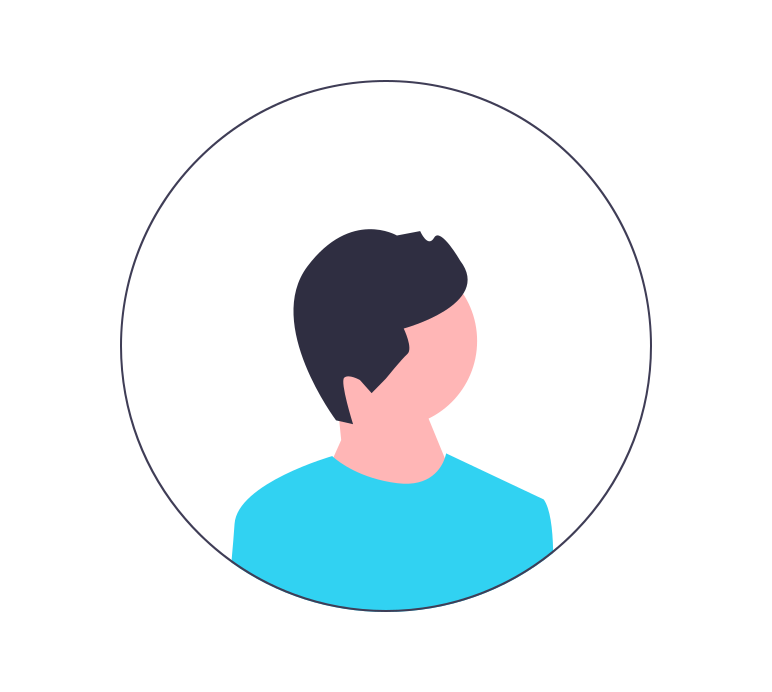
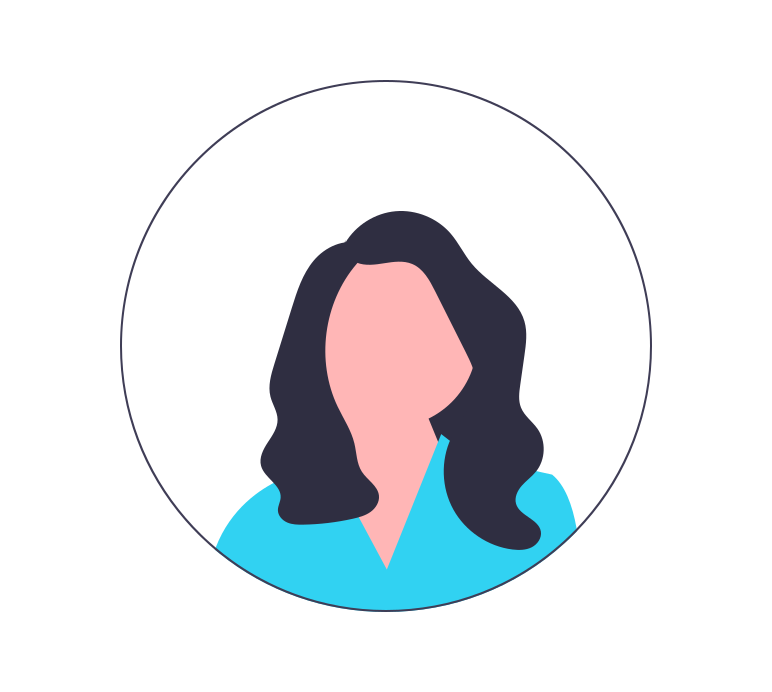
Actualizacion de diseño

Changed region(s): [[0.3109, 0.3035, 0.7461, 0.8194], [0.2798, 0.7283, 0.3109, 0.8194], [0.3731, 0.3945, 0.4041, 0.4249]]

diff --git a/index.html b/index.html
@@ -1,8 +1,6 @@
 <!DOCTYPE html>
 <html lang="en">
-
 <head>
-<<<<<<< HEAD
     <meta charset="UTF-8">
     <meta http-equiv="X-UA-Compatible" content="IE=edge">
     <meta name="viewport" content="width=device-width, initial-scale=1.0">
@@ -12,7 +10,6 @@
         integrity="sha384-GLhlTQ8iRABdZLl6O3oVMWSktQOp6b7In1Zl3/Jr59b6EGGoI1aFkw7cmDA6j6gD" crossorigin="anonymous">
     <title>TecnoStore</title>
 </head>
-
 <body>
     <nav class="navbar navbar-expand-lg bg-body-tertiary sticky-lg-top">
         <div class="container">
@@ -94,107 +91,6 @@
     <script src="https://cdn.jsdelivr.net/npm/bootstrap@5.3.0-alpha1/dist/js/bootstrap.bundle.min.js"
         integrity="sha384-w76AqPfDkMBDXo30jS1Sgez6pr3x5MlQ1ZAGC+nuZB+EYdgRZgiwxhTBTkF7CXvN"
         crossorigin="anonymous"></script>
-=======
-  <meta charset="UTF-8" />
-  <meta http-equiv="X-UA-Compatible" content="IE=edge" />
-  <link href="https://fonts.googleapis.com/css2?family=Montserrat:wght@500&display=swap" rel="stylesheet">
-  <link href="https://fonts.googleapis.com/css2?family=Montserrat:wght@500&display=swap" rel="stylesheet" />
-  <link href="https://cdn.jsdelivr.net/npm/bootstrap@5.3.0-alpha1/dist/css/bootstrap.min.css" rel="stylesheet"
-    integrity="sha384-GLhlTQ8iRABdZLl6O3oVMWSktQOp6b7In1Zl3/Jr59b6EGGoI1aFkw7cmDA6j6gD" crossorigin="anonymous" />
-  <link rel="stylesheet" href="./css/estilos.css" />
-  <meta name="viewport" content="width=device-width, initial-scale=1.0" />
-  <title>CineCDMX</title>
-</head>
-
-<body>
-
-  <!-- Navegacion -->
-  <nav class="navbar navbar-expand-lg">
-    <div class="container-fluid navegacion">
-      <a class="navbar-brand" href="#"><img src="img/logo-corto.png" class="w-25" alt=""></a>
-      <button class="navbar-toggler" type="button" data-bs-toggle="collapse" data-bs-target="#navbarNavAltMarkup"
-        aria-controls="navbarNavAltMarkup" aria-expanded="false" aria-label="Toggle navigation">
-        <span class="navbar-toggler-icon"></span>
-      </button>
-      <div class="collapse navbar-collapse justify-content-end" id="navbarNavAltMarkup">
-        <div class="navbar-nav">
-          <a class="nav-link" href="./index.html">Inicio</a>
-          <a class="nav-link" href="./pages/alimentos.html">Alimentos</a>
-          <a class="nav-link" href="./pages/preventa.html">Preventa</a>
-          <a class="nav-link" href="./pages/estrenos.html">Estrenos</a>
-          <a class="nav-link" href="./pages/iniciar_sesion.html">Iniciar Sesion</a>
-        </div>
-      </div>
-    </div>
-  </nav>
-
-  <!-- Carrusel -->
-  <div id="carouselExample" class="carousel slide">
-    <div class="carousel-inner">
-      <div class="carousel-item active">
-        <img src="./img/portada1.jpg" class="d-block w-100" alt="...">
-      </div>
-      <div class="carousel-item">
-        <img src="./img/portada2.jpg" class="d-block w-100" alt="...">
-      </div>
-    </div>
-    <button class="carousel-control-prev" type="button" data-bs-target="#carouselExample" data-bs-slide="prev">
-      <span class="carousel-control-prev-icon" aria-hidden="true"></span>
-      <span class="visually-hidden">Previous</span>
-    </button>
-    <button class="carousel-control-next" type="button" data-bs-target="#carouselExample" data-bs-slide="next">
-      <span class="carousel-control-next-icon" aria-hidden="true"></span>
-      <span class="visually-hidden">Next</span>
-    </button>
-  </div>
-  <!-- Cartelera de peliculas -->
-  <div class="cartelera">
-    <div class="container">
-      <p class="text-center text-warning display-4">Cartelera</p>
-      <p class="text-warning display-6">Estrenos</p>
-      <div id="estrenos" class="container d-flex justify-content-around">
-        <img src="img/pelicula1.jpeg" alt="" class="w-25">
-        <img src="img/pelicula1.jpeg" alt="" class="w-25">
-        <img src="img/pelicula1.jpeg" alt="" class="w-25">
-      </div>
-      <p class="text-warning display-6">Todas las peliculas</p>
-      <div id="estrenos" class="container d-flex justify-content-around">
-        <img src="img/pelicula2.jpg" alt="" class="w-25">
-        <img src="img/pelicula2.jpg" alt="" class="w-25">
-        <img src="img/pelicula2.jpg" alt="" class="w-25">
-      </div>
-    </div>
-  </div>
-  <!-- Pie de pagina -->
-  <footer>
-    <div class="container-fluid d-flex flex-column align-items-center flex-lg-row">
-      <img src="img/logo.png" alt="" class="w-75 order-lg-2">
-      <div class="container-fluid d-flex justify-content-evenly">
-        <div class="sucursales">
-          <h4 class="text-warning">Sucursales</h4>
-          <div id="listaSucursales" class="d-flex flex-column">
-            <a href="">CDMX Norte</a>
-            <a href="">CDMX Oriente</a>
-            <a href="">Reforma</a>
-            <a href="">Perisur</a>
-          </div>
-        </div>
-        <div class="redes">
-          <h4 class="text-warning">Contacto</h4>
-          <div id="listaContacto" class="d-flex flex-column">
-            <a href="">Whatsapp</a>
-            <a href="">Facebook</a>
-            <a href="">Twitter</a>
-          </div>
-        </div>
-      </div>
-    </div>
-  </footer>
-  <!-- Script de bootstrap -->
-  <script src="https://cdn.jsdelivr.net/npm/bootstrap@5.3.0-alpha1/dist/js/bootstrap.bundle.min.js"
-    integrity="sha384-w76AqPfDkMBDXo30jS1Sgez6pr3x5MlQ1ZAGC+nuZB+EYdgRZgiwxhTBTkF7CXvN"
-    crossorigin="anonymous"></script>
->>>>>>> a169582959666c43c9a5deb860c86a633d6502f1
 </body>
 
 </html>

diff --git a/css/estilos.css b/css/estilos.css
@@ -1,48 +1,88 @@
 *{
-    font-family: 'Montserrat', sans-serif;
+    box-sizing: 0;
+    padding: 0;
+    margin: 0;
+    font-family: 'Montserrat';
 }
-nav{
-    background-color: #03071e;
-}
-.navegacion{
-    padding: 0px 20px;
-}
-.navbar-nav a{
-    color: white;
-}
-.cartelera{
-    padding: 30px 20px;
-    background:linear-gradient(
-    0deg,rgba(0,0,0,0.8),
-    rgba(0,0,0,0.8)),
-    url("https://www.10wallpaper.com/wallpaper/1366x768/1805/2018_Ready_Player_One_4K_HD_Movies_1366x768.jpg");
-    background-position: center;
-    background-size: cover;
-    background-repeat: repeat;
-}
-#estrenos{
-    margin-bottom: 15px;
-}
-footer{
-    background-color: #03071e;
-    padding: 30px 0px;
-}
-ul,ol{
+ul{
     list-style: none;
+}
+h1,h2,h3,h4,h5,h6{
+    color: #FFBA08;
+    text-align: center;
 }
 a{
     text-decoration: none;
     color: white;
 }
-.login{
-    padding: 50px 20px;
+/* ------ Barra de navegacion ------- */
+header nav{
+    height: 60px;
+    background-color: #03071e;
+    color: white;
+    position: relative;
+    padding: 0px 50px; 
 }
-main{
+nav ul li{
+    display: inline-block;
+    margin: 0px 10px;
+}
+nav ul{
+    top: 35%;
+    position: absolute;
+}
+/* ------- Proximo carrusel */
+.carrusel{
+    width: 100%;
+    height: 60vh;
+    background: url("../img/portada2.jpg");
+    background-position: center center;
+    background-size: cover;
+}
+/* -------- Cartelera -------*/
+.cartelera{
+    padding: 30px 100px;
     background:linear-gradient(
-    0deg,rgba(0,0,0,0.8),
-    rgba(0,0,0,0.8)),
-    url("https://ipmark.com/wp-content/uploads/2016/05/salas-de-cine-digitalizadas.jpg");
+        0deg,rgba(0,0,0,0.8),
+        rgba(0,0,0,0.8)),
+        url("../img/fondo.jpg");
     background-position: center;
     background-size: cover;
     background-repeat: repeat;
+}
+.estrenos img{
+    width: 140px;
+    height: 200px;
+}
+.estrenos .estreno{
+    display: inline-block;
+    margin: 50px 10px;
+}
+.peliculas img{
+    width: 140px;
+    height: 200px;
+}
+.peliculas .pelicula{
+    display: inline-block;
+    margin: 50px 10px;
+}
+/* -------- Footer ------- */
+footer{
+    background-color: #03071e;
+    color: white;
+    padding: 30px 100px;
+}
+footer .secciones_footer ul{
+    display: inline-block;
+}
+.secciones_footer{
+    width: 70%;
+    margin: 0 auto;
+}
+.sucursales, .contacto{
+    width: 30%;
+    margin: 0px 20px;
+}
+.secciones_footer img{
+    width: 200px;
 }

diff --git a/pages/alimentos.html b/pages/alimentos.html
@@ -1,0 +1,46 @@
+<!DOCTYPE html>
+<html lang="en">
+<head>
+    <meta charset="UTF-8">
+    <meta http-equiv="X-UA-Compatible" content="IE=edge">
+    <link href="https://fonts.googleapis.com/css2?family=Montserrat:wght@500&display=swap" rel="stylesheet">
+    <link rel="stylesheet" href="../css/estilos.css">
+    <meta name="viewport" content="width=device-width, initial-scale=1.0">
+    <title>CineCDMX</title>
+</head>
+<body>
+    <header>
+        <nav>
+            <ul>
+                <li><a href="../index.html">Inicio </a></li>
+                <li><a href="./alimentos.html">Alimentos</a></li>
+                <li><a href="./preventa.html">Preventa</a></li>
+                <li><a href="./estrenos.html">Estrenos</a></li>
+                <li><a href="./iniciar_sesion.html">Iniciar Sesion</a></li>
+            </ul>
+        </nav>
+    </header>
+    <main>
+        <section class="alimentos">
+
+        </section>
+    </main>
+    <footer>
+        <div class="secciones_footer">
+            <ul class="sucursales">
+                <li>CDMX Norte</li>
+                <li>CDMX Oriente</li>
+                <li>Reforma</li>
+                <li>Perisur</li>
+            </ul>
+            <ul class="contacto">
+                <li>Whatsapp</li>
+                <li>Facebook</li>
+                <li>Twitter</li>
+                <li>Correo electronico</li>
+            </ul>
+            <img src="./img/logo.png" alt="">
+        </div>
+    </footer>
+</body>
+</html>

diff --git a/pages/estrenos.html b/pages/estrenos.html
@@ -1,0 +1,44 @@
+<!DOCTYPE html>
+<html lang="en">
+<head>
+    <meta charset="UTF-8">
+    <meta http-equiv="X-UA-Compatible" content="IE=edge">
+    <link href="https://fonts.googleapis.com/css2?family=Montserrat:wght@500&display=swap" rel="stylesheet">
+    <link rel="stylesheet" href="../css/estilos.css">
+    <meta name="viewport" content="width=device-width, initial-scale=1.0">
+    <title>CineCDMX</title>
+</head>
+<body>
+    <header>
+        <nav>
+            <ul>
+                <li><a href="../index.html">Inicio </a></li>
+                <li><a href="./alimentos.html">Alimentos</a></li>
+                <li><a href="./preventa.html">Preventa</a></li>
+                <li><a href="./estrenos.html">Estrenos</a></li>
+                <li><a href="./iniciar_sesion.html">Iniciar Sesion</a></li>
+            </ul>
+        </nav>
+    </header>
+    <main>
+        
+    </main>
+    <footer>
+        <div class="secciones_footer">
+            <ul class="sucursales">
+                <li>CDMX Norte</li>
+                <li>CDMX Oriente</li>
+                <li>Reforma</li>
+                <li>Perisur</li>
+            </ul>
+            <ul class="contacto">
+                <li>Whatsapp</li>
+                <li>Facebook</li>
+                <li>Twitter</li>
+                <li>Correo electronico</li>
+            </ul>
+            <img src="./img/logo.png" alt="">
+        </div>
+    </footer>
+</body>
+</html>

diff --git a/pages/preventa.html b/pages/preventa.html
@@ -1,0 +1,44 @@
+<!DOCTYPE html>
+<html lang="en">
+<head>
+    <meta charset="UTF-8">
+    <meta http-equiv="X-UA-Compatible" content="IE=edge">
+    <link href="https://fonts.googleapis.com/css2?family=Montserrat:wght@500&display=swap" rel="stylesheet">
+    <link rel="stylesheet" href="../css/estilos.css">
+    <meta name="viewport" content="width=device-width, initial-scale=1.0">
+    <title>CineCDMX</title>
+</head>
+<body>
+    <header>
+        <nav>
+            <ul>
+                <li><a href="../index.html">Inicio </a></li>
+                <li><a href="./alimentos.html">Alimentos</a></li>
+                <li><a href="./preventa.html">Preventa</a></li>
+                <li><a href="./estrenos.html">Estrenos</a></li>
+                <li><a href="./iniciar_sesion.html">Iniciar Sesion</a></li>
+            </ul>
+        </nav>
+    </header>
+    <main>
+        
+    </main>
+    <footer>
+        <div class="secciones_footer">
+            <ul class="sucursales">
+                <li>CDMX Norte</li>
+                <li>CDMX Oriente</li>
+                <li>Reforma</li>
+                <li>Perisur</li>
+            </ul>
+            <ul class="contacto">
+                <li>Whatsapp</li>
+                <li>Facebook</li>
+                <li>Twitter</li>
+                <li>Correo electronico</li>
+            </ul>
+            <img src="./img/logo.png" alt="">
+        </div>
+    </footer>
+</body>
+</html>

diff --git a/pages/reseñas.html b/pages/reseñas.html
@@ -54,7 +54,7 @@
                     <div class="card mb-3" style="max-width: 540px;">
                         <div class="row g-0">
                             <div class="col-4">
-                                <img src="../img/avatarM.png" class="img-fluid rounded-start" alt="...">
+                                <img src="../img/avatarF.png" class="img-fluid rounded-start" alt="...">
                             </div>
                             <div class="col-8">
                                 <div class="card-body">
